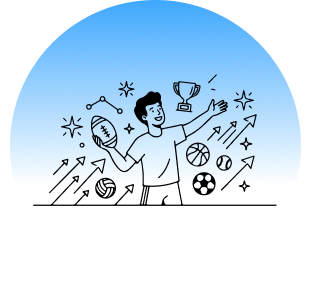
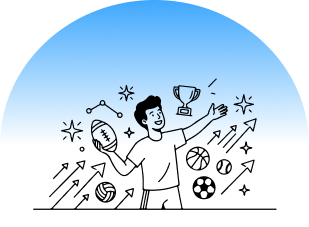
in this branch i copmlated and update the on boarding screen

diff --git a/lib/feature/view/Onboarding/on_boarding_screen.dart b/lib/feature/view/Onboarding/on_boarding_screen.dart
@@ -1,66 +1,3 @@
-// import 'package:flutter/material.dart';
-// import 'package:flutter_svg/svg.dart';
-// import 'package:sport_finding/core/Constants/app_assets.dart';
-// import 'package:sport_finding/core/Constants/app_colors.dart';
-// import 'package:sport_finding/core/Constants/app_text.dart';
-// import 'package:sport_finding/core/Constants/size_extension.dart';
-// import 'package:sport_finding/feature/widget/custom_button.dart';
-// import 'package:sport_finding/feature/widget/normal_text.dart';
-// import 'package:sport_finding/feature/widget/splash_background.dart';
-
-// class OnBoardingScreen extends StatefulWidget {
-//   const OnBoardingScreen({super.key});
-
-//   @override
-//   State<OnBoardingScreen> createState() => _OnBoardingScreenState();
-// }
-
-// class _OnBoardingScreenState extends State<OnBoardingScreen> {
-//   @override
-//   Widget build(BuildContext context) {
-//     return Scaffold(
-//       backgroundColor: AppColors.whitecolor,
-//       bottomNavigationBar: Padding(
-//         padding: EdgeInsetsGeometry.only(
-//           top: context.h(3),
-//           left: context.w(20),
-//           right: context.w(20),
-//           bottom: context.text(10),
-//         ),
-//         child: CustomButton(
-//           isEnabled: true,
-//           text: AppText.next,
-//           color: AppColors.bluecolor,
-//         ),
-//       ),
-//       body: SafeArea(
-//         child: SplashBackground(
-//           child: Padding(
-//             padding: context.padSym(h: 20, v: 20),
-//             child: Column(
-//               children: [
-//                 Row(
-//                   mainAxisAlignment: MainAxisAlignment.spaceBetween,
-//                   children: [
-//                     SvgPicture.asset(AppAssets.backIcon, fit: BoxFit.contain),
-//                     NormalText(
-//                       titleText: 'Skip',
-//                       titleSize: context.text(16),
-//                       titleColor: AppColors.greydark,
-//                       titleWeight: FontWeight.w500,
-//                     ),
-//                   ],
-//                 ),
-//                 SizedBox(height: context.h(180)),
-//                 Image.asset(AppAssets.firstImage),
-//               ],
-//             ),
-//           ),
-//         ),
-//       ),
-//     );
-//   }
-// }
 import 'package:flutter/material.dart';
 import 'package:flutter_svg/svg.dart';
 import 'package:sport_finding/core/Constants/app_assets.dart';
@@ -81,10 +18,10 @@ class OnBoardingScreen extends StatefulWidget {
 
 class _OnBoardingScreenState extends State<OnBoardingScreen> {
   final OnboardingScreenViewModel model = OnboardingScreenViewModel();
+
   @override
   void initState() {
     super.initState();
-
     model.addListener(() => setState(() {}));
   }
 
@@ -131,15 +68,17 @@ class _OnBoardingScreenState extends State<OnBoardingScreen> {
                               fit: BoxFit.contain,
                             ),
                           ),
-                    GestureDetector(
-                      onTap: () => model.onSkipTapped(context),
-                      child: NormalText(
-                        titleText: AppText.skip,
-                        titleSize: context.text(16),
-                        titleColor: AppColors.greydark,
-                        titleWeight: FontWeight.w500,
-                      ),
-                    ),
+                    model.isFirstPage || model.isLastPage
+                        ? const SizedBox.shrink()
+                        : GestureDetector(
+                            onTap: () => model.onSkipTapped(context),
+                            child: NormalText(
+                              titleText: AppText.skip,
+                              titleSize: context.text(16),
+                              titleColor: AppColors.greydark,
+                              titleWeight: FontWeight.w500,
+                            ),
+                          ),
                   ],
                 ),
 
@@ -154,9 +93,8 @@ class _OnBoardingScreenState extends State<OnBoardingScreen> {
                       final data = model.onBoardingImages[index];
                       return Column(
                         mainAxisAlignment: MainAxisAlignment.center,
-                        crossAxisAlignment: CrossAxisAlignment.center,
                         children: [
-                          Image.asset(data['Image'], fit: BoxFit.contain),
+                          Image.asset(data['Image'], fit: BoxFit.scaleDown),
                           NormalText(
                             crossAxisAlignment: CrossAxisAlignment.center,
                             titleText: data['title'],
@@ -175,29 +113,6 @@ class _OnBoardingScreenState extends State<OnBoardingScreen> {
                     },
                   ),
                 ),
-
-                // // Dot Indicators
-                // Row(
-                //   mainAxisAlignment: MainAxisAlignment.center,
-                //   children: List.generate(
-                //     model.onBoardingImages.length,
-                //     (index) => AnimatedContainer(
-                //       duration: const Duration(milliseconds: 300),
-                //       margin: EdgeInsets.symmetric(horizontal: context.w(4)),
-                //       width: model.currentIndex == index
-                //           ? context.w(20)
-                //           : context.w(8),
-                //       height: context.h(8),
-                //       decoration: BoxDecoration(
-                //         color: model.currentIndex == index
-                //             ? AppColors.bluecolor
-                //             : AppColors.greydark.withOpacity(0.4),
-                //         borderRadius: BorderRadius.circular(4),
-                //       ),
-                //     ),
-                //   ),
-                // ),
-                // SizedBox(height: context.h(16)),
               ],
             ),
           ),

diff --git a/lib/core/Routes/routes.dart b/lib/core/Routes/routes.dart
@@ -3,6 +3,8 @@ import 'package:sport_finding/core/Constants/app_colors.dart';
 import 'package:sport_finding/core/Constants/app_text.dart';
 import 'package:sport_finding/core/Constants/size_extension.dart';
 import 'package:sport_finding/core/Routes/routes_name.dart';
+import 'package:sport_finding/feature/view/Auth/Login/login_screen.dart';
+import 'package:sport_finding/feature/view/Auth/SigIn/sign_in_screen.dart';
 import 'package:sport_finding/feature/view/Onboarding/on_boarding_screen.dart';
 import 'package:sport_finding/feature/view/SplashScreen/splash_screen.dart';
 
@@ -19,16 +21,16 @@ class Routes {
           settings: settings,
           builder: (_) => OnBoardingScreen(),
         );
-      // case RoutesName.LoginScreen:
-      //   return MaterialPageRoute(
-      //     settings: settings,
-      //     builder: (_) => LoginScreen(),
-      //   );
-      // case RoutesName.SignInScreen:
-      //   return MaterialPageRoute(
-      //     settings: settings,
-      //     builder: (_) => SignInScreen(),
-      //   );
+      case RoutesName.LoginScreen:
+        return MaterialPageRoute(
+          settings: settings,
+          builder: (_) => LoginScreen(),
+        );
+      case RoutesName.SignInScreen:
+        return MaterialPageRoute(
+          settings: settings,
+          builder: (_) => SignInScreen(),
+        );
 
       default:
         return MaterialPageRoute(

diff --git a/lib/feature/widget/splash_background.dart b/lib/feature/widget/splash_background.dart
@@ -26,7 +26,7 @@ class SplashBackground extends StatelessWidget {
         ),
         // Mid-left circle
         Positioned(
-          top: context.h(660),
+          top: context.h(490),
           left: -context.w(55),
           child: _GlowCircle(context: context),
         ),
@@ -52,13 +52,14 @@ class _GlowCircle extends StatelessWidget {
   @override
   Widget build(BuildContext context) {
     return Container(
-      height: context.h(132),
-      width: context.w(144),
+      height: context.h(150),
+      width: context.w(150),
       decoration: BoxDecoration(
+        // color: AppColors.blue20,
         shape: BoxShape.circle,
         boxShadow: [
           BoxShadow(
-            color: AppColors.bluecolor.withOpacity(0.22),
+            color: AppColors.blue20,
             offset: const Offset(5, 5),
             blurRadius: 40,
           ),

diff --git a/lib/feature/view_model/onboarding_screen_view_model.dart b/lib/feature/view_model/onboarding_screen_view_model.dart
@@ -1,6 +1,7 @@
 import 'package:flutter/material.dart';
 import 'package:sport_finding/core/Constants/app_assets.dart';
 import 'package:sport_finding/core/Constants/app_text.dart';
+import 'package:sport_finding/core/Routes/routes_name.dart';
 
 class OnboardingScreenViewModel extends ChangeNotifier {
   final PageController pageController = PageController();
@@ -57,10 +58,6 @@ class OnboardingScreenViewModel extends ChangeNotifier {
   }
 
   void onGetStarted(BuildContext context) {
-    // TODO: Navigator.pushReplacementNamed(context, AppRoutes.login);
-  }
-
-  void dispose() {
-    pageController.dispose();
+    Navigator.pushReplacementNamed(context, RoutesName.LoginScreen);
   }
 }

diff --git a/lib/core/Constants/app_colors.dart b/lib/core/Constants/app_colors.dart
@@ -2,9 +2,9 @@ import 'package:flutter/material.dart';
 
 class AppColors {
   static const Color bluecolor = Color(0xFF3EA7FD);
-  static const Color blue20 = Color(0xFF3EA7FD);
+  static Color blue20 = Color(0xFF3EA7FD).withOpacity(0.2);
   static const Color whitecolor = Color(0xFFFFFFFF);
-  static const Color blue10 = Color(0xFF3EA7FD);
+  static Color blue10 = Color(0xFF3EA7FD).withOpacity(0.1);
   static const Color redcolor = Color(0xFFFF0000);
   static const Color greencolor = Color(0xFF00CC46);
   static const Color blackcolor = Color(0xFF000000);

diff --git a/lib/core/Constants/app_assets.dart b/lib/core/Constants/app_assets.dart
@@ -1,6 +1,6 @@
 class AppAssets {
   //Main Logo
-  static const String mainLogo = "assets/logo/mainLogo.png";
+  static const String mainLogo = "assets/logo/logo.png";
 
   //Sport Icon
   static const String basketBallIcon = "assets/sport/basketball.svg";

diff --git a/lib/main.dart b/lib/main.dart
@@ -14,7 +14,7 @@ void main() {
       ],
       child: MaterialApp(
         debugShowCheckedModeBanner: false,
-        // home: OnBoardingScreen(),
+        // home: SplashScreen(),
         initialRoute: RoutesName.SplashScreen,
         onGenerateRoute: Routes.generateRoute,
       ),